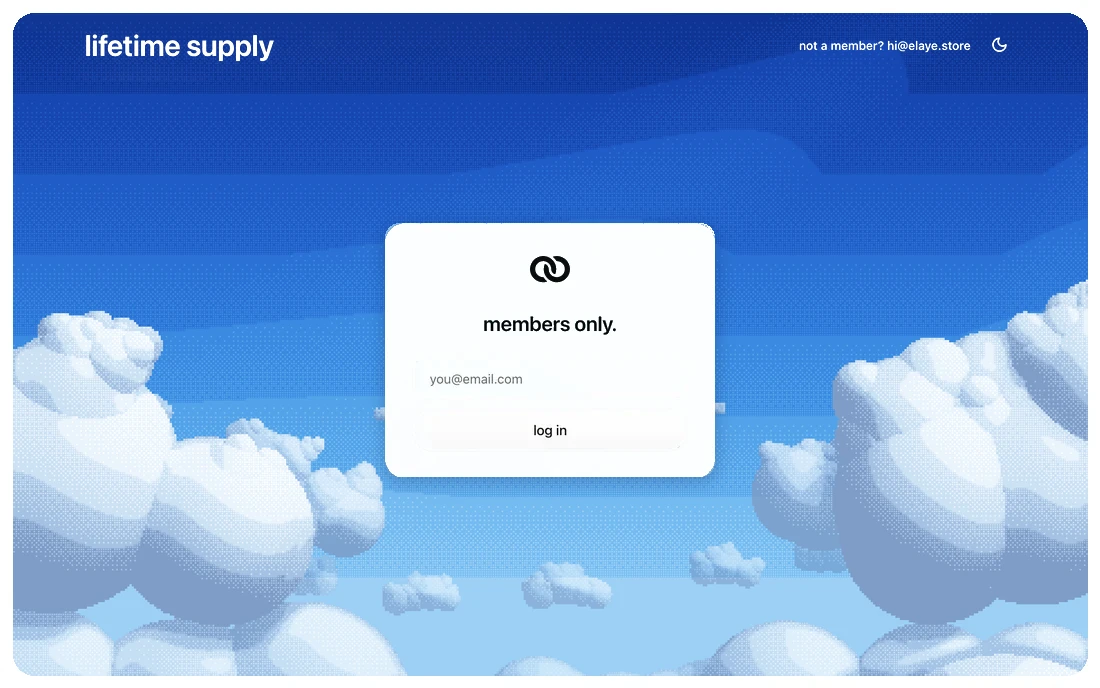
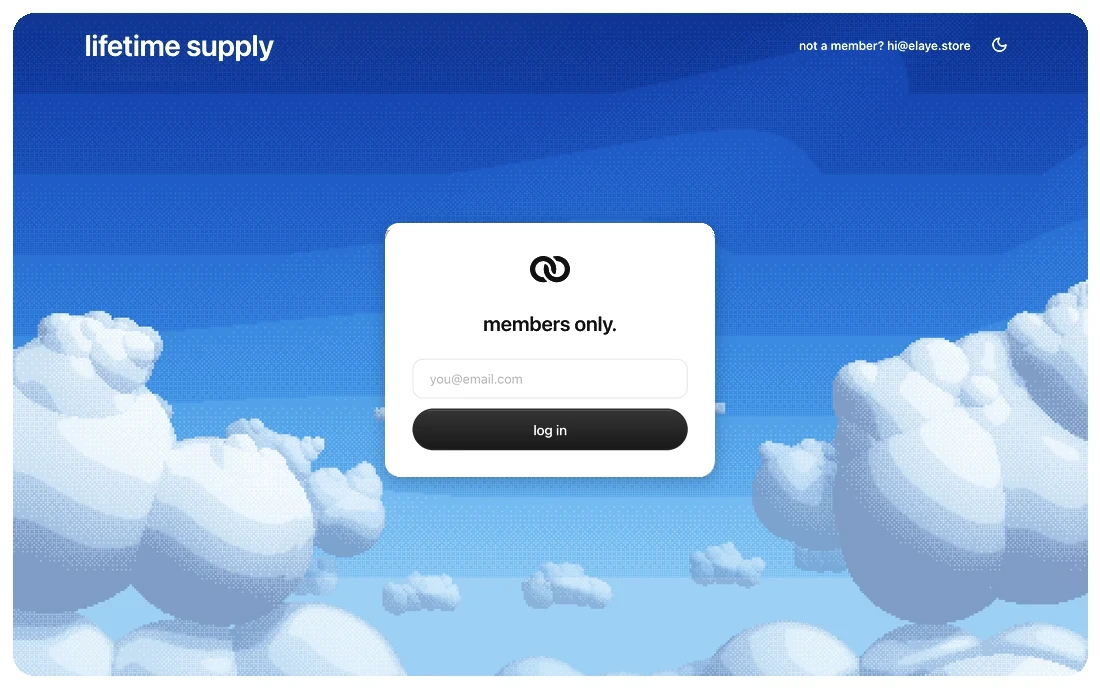
landing: critic round 1 (the hero follows the screen's height so the control stays in the first screen; the demo sign-in's log in is the ink pill and its field has a hairline)
Claude-Session: https://claude.ai/code/session_01DVdaAHKLx8YrtREDSAMjqN

Changed region(s): [[0.3709, 0.5494, 0.6491, 0.6715]]

diff --git a/css/redesign-1112.css b/css/redesign-1112.css
@@ -29,7 +29,11 @@ html .opening .hero-gradient-203,html .opening .opening-blots,html .opening .ob,
 html .opening{background:#FFFFFF!important}
 
 /* ---------- hero B (out/landing/final/SPEC.md v1, 03:04): nav on white across the page, the panel below it ---------- */
-html .hero.hero-b{display:block!important;position:relative;height:900px!important;min-height:0!important;padding:0!important;box-sizing:border-box;overflow:visible;isolation:isolate;background:#FFFFFF}
+/* critic round 1, fix 1: the hero follows the screen's height so the control stays in the first screen on a laptop;
+   at 1440 x 900 nothing moves (panel 788, control foot at 876) */
+:root{--rd-ph:clamp(560px,calc(100vh - 112px),788px);--rd-copy-top:clamp(120px,calc(100vh - 716px),184px)}
+@supports (height:100svh){:root{--rd-ph:clamp(560px,calc(100svh - 112px),788px);--rd-copy-top:clamp(120px,calc(100svh - 716px),184px)}}
+html .hero.hero-b{display:block!important;position:relative;height:calc(88px + var(--rd-ph) + 24px)!important;min-height:0!important;padding:0!important;box-sizing:border-box;overflow:visible;isolation:isolate;background:#FFFFFF}
 html .hero.hero-b>.site-nav{position:absolute!important;top:0;left:0;right:0;height:88px;padding:0 24px 0 56px!important;margin:0;gap:0;
   display:flex;align-items:center;z-index:6;background:#FFFFFF!important;box-shadow:none!important;border:0!important}
 html .hero.hero-b .wordmark{display:inline-flex!important;align-items:center;gap:10px;height:44px;color:var(--rd-ink);text-decoration:none}
@@ -51,7 +55,7 @@ html:not(#ls-a):not(#ls-b) body .hero.hero-b .header-login{order:3;margin:0!impo
 html:not(#ls-a):not(#ls-b) body .hero.hero-b .header-login:hover{border-color:rgba(17,17,17,.36)!important;background:#FAFAFA!important}
 html .hero.hero-b .header-login:focus-visible,html .hero.hero-b .motion-toggle:focus-visible{outline:2px solid #111111;outline-offset:3px}
 
-html .hero.hero-b .hero-copy{position:absolute!important;left:56px;top:184px;bottom:24px;width:min(640px,calc(100vw - min(692px,48.06vw) - 120px));margin:0!important;padding:0!important;max-width:600px!important;
+html .hero.hero-b .hero-copy{position:absolute!important;left:56px;top:var(--rd-copy-top);bottom:24px;width:min(640px,calc(100vw - min(692px,48.06vw) - 120px));margin:0!important;padding:0!important;max-width:600px!important;
   min-height:0;display:flex!important;flex-direction:column;align-items:flex-start;justify-content:flex-start;text-align:left!important;transform:none!important;opacity:1}
 html .hero.hero-b #hero-title{margin:0!important;white-space:nowrap;text-align:left!important;font-size:66px!important;line-height:66px!important;font-weight:500!important;
   letter-spacing:-.04em!important;color:var(--rd-ink)!important;max-width:none;width:auto}
@@ -70,7 +74,7 @@ html{scroll-behavior:smooth}
 @media (prefers-reduced-motion:reduce){html{scroll-behavior:auto}}
 
 /* the sky panel (set 2 warm, critic 03:06), the window edge (row 298, 22 %) and the window, cut by the panel's right and bottom edges */
-.hero-panel{position:absolute;right:24px;top:88px;width:min(692px,48.06vw);height:788px;border-radius:var(--rd-panel-r);overflow:hidden;
+.hero-panel{position:absolute;right:24px;top:88px;width:min(692px,48.06vw);height:var(--rd-ph);border-radius:var(--rd-panel-r);overflow:hidden;
   background:var(--rd-sky-solid) url('../brand/current/sky/landing-hero-panel.webp') center bottom/cover no-repeat;isolation:isolate}
 .hero-front{position:absolute;left:0;bottom:0;width:100%;height:100%;object-fit:cover;object-position:center bottom;display:block;pointer-events:none;z-index:2}
 .hero-band{position:absolute;z-index:1;left:var(--rd-inset);top:var(--rd-inset);padding:var(--rd-band-w);border-radius:var(--rd-band-r);background:var(--rd-band);width:1000px}
